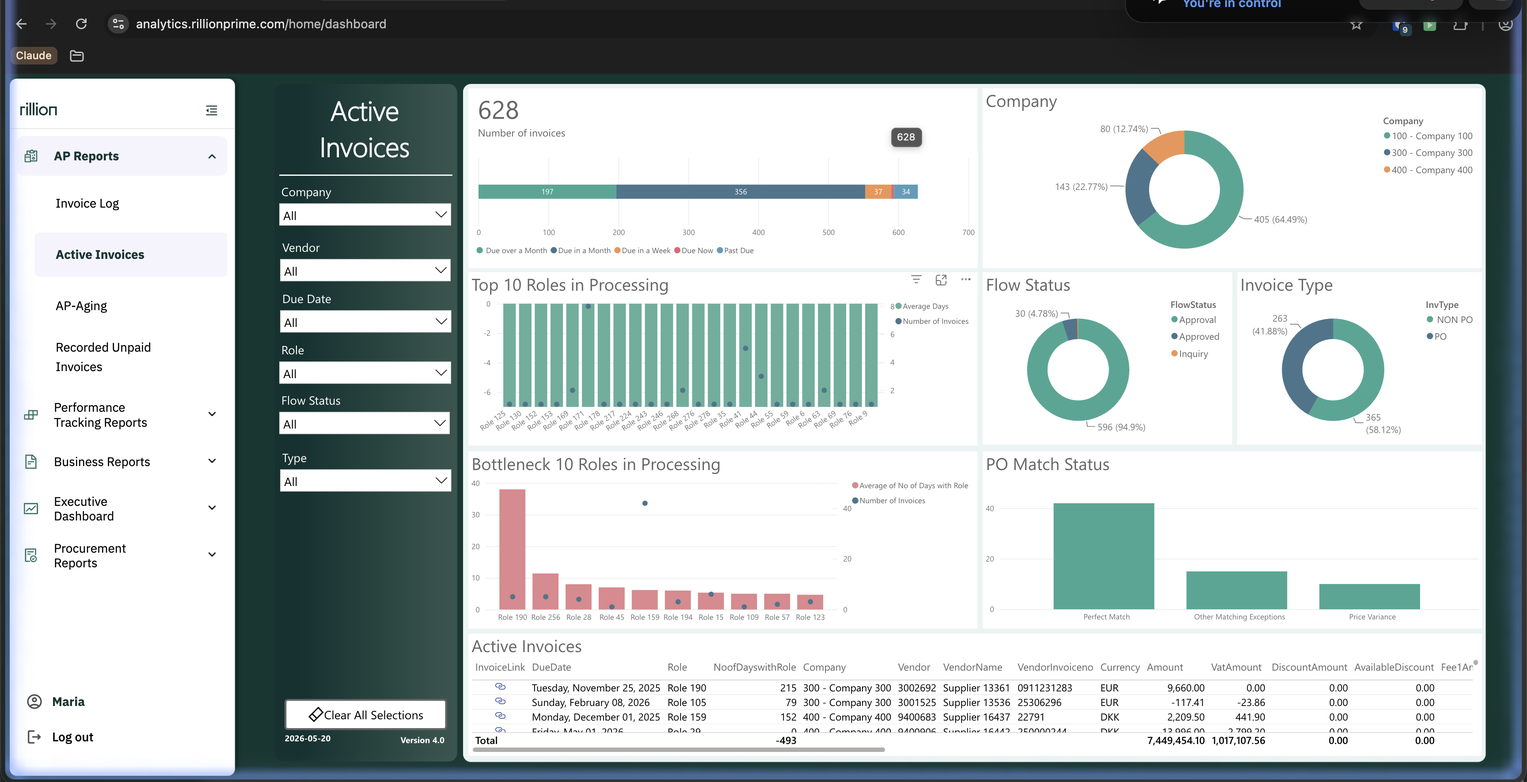
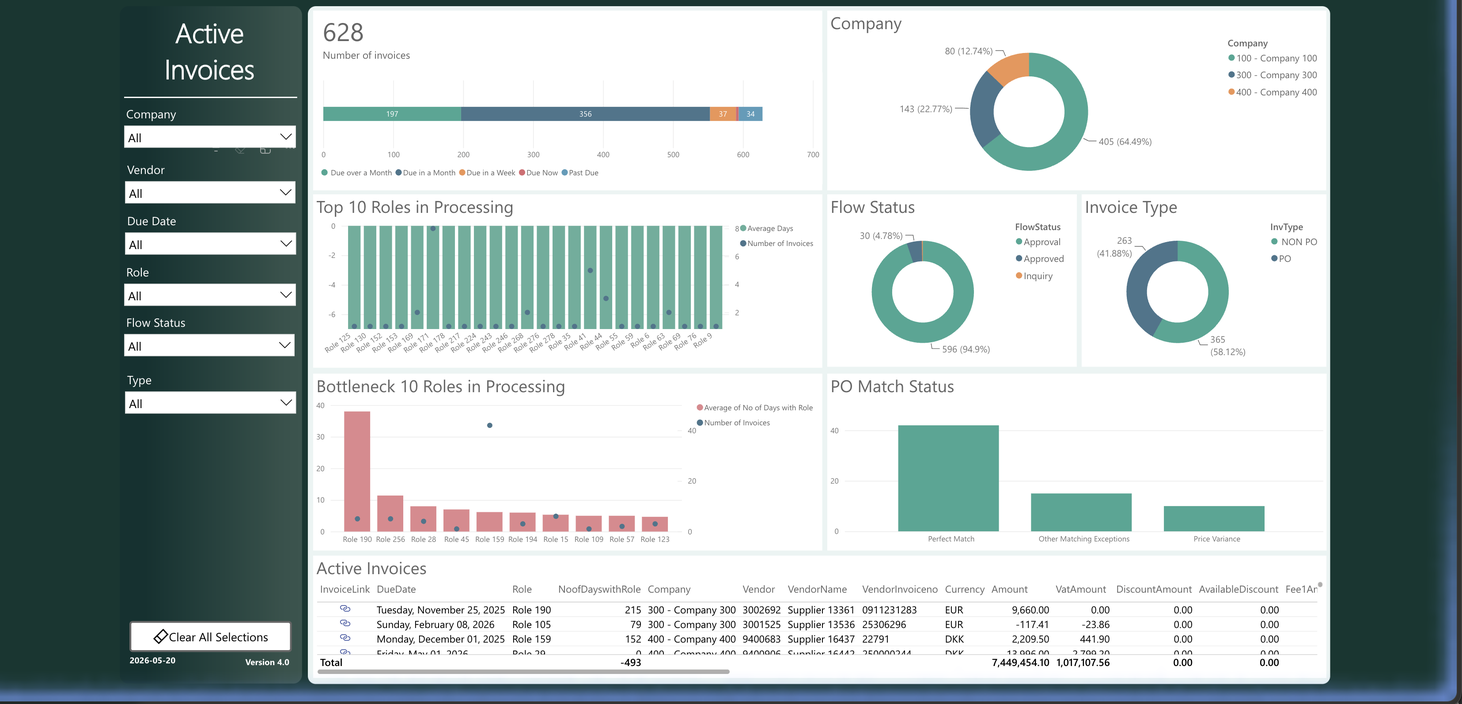
Make analytics evidence easier to explore
Use the clean dashboard captures and add log-only AI-matched non-PO examples so prospects can see automation without changing operational queue counts.

diff --git a/app.js b/app.js
@@ -48,20 +48,25 @@ const invoices = [
   { id: 'INV-77821', vendor: 'Precision Tools Co.', vendorInvoice: 'PTC-55392', amount: 3265, status: 'Manager approval', type: 'approval', flowProposal: 'Department manager', accountPosting: '6420 · Tooling', accountingDate: 'Apr 6, 2026', currency: 'USD', po: '4500838', poTone: 'warn', match: 96, matchTone: 'warn', due: 'May 4, 2026', owner: 'Jordan Lee', role: 'department-manager', confidence: 97, lines: [['CNC tooling set', 1, 3265]] },
   { id: 'INV-99314', vendor: 'Summit Packaging', vendorInvoice: 'SP-209875', amount: 8750, status: 'PO exception', type: 'exception', flowProposal: 'AP review', accountPosting: 'Review required', accountingDate: 'Apr 9, 2026', currency: 'USD', po: 'No PO', poTone: 'bad', match: 72, matchTone: 'bad', due: 'May 7, 2026', owner: 'AP review', role: 'ap-review', confidence: 84, lines: [['Protective packaging', 50, 175]] },
   { id: 'INV-66102', vendor: 'Riverside Logistics', vendorInvoice: 'RL-88014', amount: 960, status: 'AP review', type: 'match', flowProposal: 'Finance controller', accountPosting: '6210 · Freight', accountingDate: 'Apr 12, 2026', currency: 'USD', po: '4500841', poTone: 'warn', match: 91, matchTone: 'warn', due: 'May 12, 2026', owner: 'Morgan Patel', role: 'finance-controller', confidence: 94, lines: [['Regional freight', 1, 960]] },
-  { id: 'INV-55277', vendor: 'Core Facility Services', vendorInvoice: 'CFS-44871', amount: 4320, status: 'Manager approval', type: 'approval', flowProposal: 'Department manager', accountPosting: '6810 · Maintenance', accountingDate: 'Apr 15, 2026', currency: 'USD', po: '4500770', poTone: 'good', match: 100, matchTone: 'good', due: 'May 15, 2026', owner: 'Alex Nguyen', role: 'department-manager', confidence: 99, lines: [['Quarterly maintenance', 1, 4320]] }
+  { id: 'INV-55277', vendor: 'Core Facility Services', vendorInvoice: 'CFS-44871', amount: 4320, status: 'Manager approval', type: 'approval', flowProposal: 'Department manager', accountPosting: '6810 · Maintenance', accountingDate: 'Apr 15, 2026', currency: 'USD', po: '4500770', poTone: 'good', match: 100, matchTone: 'good', due: 'May 15, 2026', owner: 'Alex Nguyen', role: 'department-manager', confidence: 99, lines: [['Quarterly maintenance', 1, 4320]] },
+  { id: 'INV-18044', vendor: 'Brightwell Consulting', vendorInvoice: 'BC-94811', amount: 6480, status: 'Ready to record', type: 'match', flowProposal: 'Directly to recording', accountPosting: 'AI generated · 6530', accountingDate: 'Apr 17, 2026', currency: 'USD', po: 'Non-PO', poTone: 'good', match: 99, matchTone: 'good', aiMatched: true, logOnly: true, due: 'May 17, 2026', owner: 'AP automation', role: 'ap-review', confidence: 99, lines: [['Advisory services', 1, 6480]] },
+  { id: 'INV-18057', vendor: 'Lumen Cloud Services', vendorInvoice: 'LCS-33081', amount: 12900, status: 'AP review', type: 'match', flowProposal: 'Accounts payable +1', accountPosting: 'AI generated · 6710', accountingDate: 'Apr 18, 2026', currency: 'USD', po: 'Non-PO', poTone: 'good', match: 97, matchTone: 'good', aiMatched: true, logOnly: true, due: 'May 18, 2026', owner: 'AP automation', role: 'ap-review', confidence: 98, lines: [['Cloud platform subscription', 1, 12900]] },
+  { id: 'INV-18063', vendor: 'Harbor Office Services', vendorInvoice: 'HOS-77125', amount: 1840, status: 'Ready to record', type: 'match', flowProposal: 'Directly to recording', accountPosting: 'AI generated · 6110', accountingDate: 'Apr 20, 2026', currency: 'USD', po: 'Non-PO', poTone: 'good', match: 95, matchTone: 'good', aiMatched: true, logOnly: true, due: 'May 20, 2026', owner: 'AP automation', role: 'ap-review', confidence: 96, lines: [['Office services', 1, 1840]] },
+  { id: 'INV-18079', vendor: 'Northstar Utilities', vendorInvoice: 'NU-405193', amount: 7215, status: 'AP review', type: 'match', flowProposal: 'Accounts payable +1', accountPosting: 'AI generated · 6250', accountingDate: 'Apr 22, 2026', currency: 'USD', po: 'Non-PO', poTone: 'good', match: 98, matchTone: 'good', aiMatched: true, logOnly: true, due: 'May 22, 2026', owner: 'AP automation', role: 'ap-review', confidence: 99, lines: [['Electric utility service', 1, 7215]] }
 ];
 
 const analyticsReports = [
   { group: 'AP Reports', title: 'Invoice log', image: 'assets/analytics/invoice-log.png', copy: 'Review invoices currently in the log, errors requiring attention, match status, and time waiting for transfer.' },
-  { group: 'AP Reports', title: 'Active invoices', image: 'assets/analytics/active-invoices.png', copy: 'See active invoice volume, flow status, invoice type, match status, role bottlenecks, and the underlying invoice list.', capture: true },
+  { group: 'AP Reports', title: 'Active invoices', image: 'assets/analytics/active-invoices.png', copy: 'See active invoice volume, flow status, invoice type, match status, role bottlenecks, and the underlying invoice list.' },
   { group: 'AP Reports', title: 'AP aging', image: 'assets/analytics/payables-aging.png', copy: 'Understand open liabilities by company, vendor, and aging band without reconciling multiple ERP screens.' },
-  { group: 'Performance Tracking Reports', title: 'Invoice flow tracking', image: 'assets/analytics/invoice-flow-tracking.png', copy: 'Follow invoice-flow activity, role processing time, users, bottlenecks, and the detailed transfer history.', capture: true },
+  { group: 'Performance Tracking Reports', title: 'Invoice flow tracking', image: 'assets/analytics/invoice-flow-tracking.png', copy: 'Follow invoice-flow activity, role processing time, users, bottlenecks, and the detailed transfer history.' },
+  { group: 'Performance Tracking Reports', title: 'Invoice summary', image: 'assets/analytics/invoice-summary.png', copy: 'Review invoice volume, matching and capture types, flow and coding proposals, automation success, and vendor concentration.' },
   { group: 'Business Reports', title: 'Spend report', image: 'assets/analytics/spend-report.png', copy: 'Follow monthly spend and invoice volume, then narrow the view by company, account, vendor, or object.' },
   { group: 'Business Reports', title: 'AP cash flow', image: 'assets/analytics/ap-cash-flow.png', copy: 'See upcoming payment demand by date, currency, company, and invoice status to support cash planning.' },
-  { group: 'Business Reports', title: 'Vendor payment analyzer', image: 'assets/analytics/vendor-payment-analyzer.png', copy: 'Compare vendor payment timing, terms, late and early payments, and invoice volume across companies.', capture: true },
+  { group: 'Business Reports', title: 'Vendor payment analyzer', image: 'assets/analytics/vendor-payment-analyzer.png', copy: 'Compare vendor payment timing, terms, late and early payments, and invoice volume across companies.' },
   { group: 'Executive Dashboard', title: 'Executive dashboard', image: 'assets/analytics/executive-dashboard.png', copy: 'Track invoice volume, processing time, successful flows, coding automation, and matched spend over time.' },
-  { group: 'Procurement Reports', title: 'Procurement overview', image: 'assets/analytics/procurement-overview.png', copy: 'Review purchase-order, delivery, invoice-match, currency, and item performance in one procurement view.', capture: true },
-  { group: 'Procurement Reports', title: 'Procurement trend', image: 'assets/analytics/procurement-trend.png', copy: 'Explore adjusted purchasing amounts over time with matching, vendor, order, item, and company filters.', capture: true }
+  { group: 'Procurement Reports', title: 'Procurement overview', image: 'assets/analytics/procurement-overview.png', copy: 'Review purchase-order, delivery, invoice-match, currency, and item performance in one procurement view.' },
+  { group: 'Procurement Reports', title: 'Procurement trend', image: 'assets/analytics/procurement-trend.png', copy: 'Explore adjusted purchasing amounts over time with matching, vendor, order, item, and company filters.' }
 ];
 
 const documentTabs = [
@@ -159,7 +164,7 @@ function filtered() {
 }
 
 function queue() {
-  const matches = filtered();
+  const matches = filtered().filter(inv => !inv.logOnly);
   return `<section class="panel queue-panel"><div class="panel-head"><h2>My task queue</h2><button class="link-button" data-view="tasks">All tasks</button></div>
     <div class="task-summary">${[['8', 'Total'], ['3', 'Approvals'], ['2', 'Exceptions'], ['3', 'Other']].map(([value, label]) => `<div class="summary-item"><strong>${value}</strong><span>${label}</span></div>`).join('')}</div>
     ${matches.length ? `<ul class="queue">${matches.map(inv => `<li><button class="queue-item ${state.selected.id === inv.id ? 'selected' : ''}" data-invoice="${inv.id}"><strong>${inv.vendor}</strong><span class="amount">${money(inv.amount)}</span><small>${inv.id}</small>${status(inv)}</button></li>`).join('')}</ul>` : emptyState('No matching invoices', 'Try a vendor, invoice number, purchase order, or owner.')}
@@ -198,15 +203,15 @@ function relay(inv) {
 function dashboard() { workspace.innerHTML = `<div class="workspace-grid">${queue()}${invoicePanel(state.selected)}${relay(state.selected)}</div>`; }
 
 function toVerify() {
-  const rows = filtered().map(inv => `<tr data-invoice="${inv.id}" tabindex="0" role="link" aria-label="Verify ${inv.id} from ${inv.vendor}"><td><strong>${inv.id}</strong><small>${inv.vendor}</small></td><td>${money(inv.amount)}</td><td>${inv.confidence}%</td><td>${inv.po}</td><td>${status(inv)}</td></tr>`).join('');
+  const rows = filtered().filter(inv => !inv.logOnly).map(inv => `<tr data-invoice="${inv.id}" tabindex="0" role="link" aria-label="Verify ${inv.id} from ${inv.vendor}"><td><strong>${inv.id}</strong><small>${inv.vendor}</small></td><td>${money(inv.amount)}</td><td>${inv.confidence}%</td><td>${inv.po}</td><td>${status(inv)}</td></tr>`).join('');
   workspace.innerHTML = pageIntro('To Verify', 'Review fields extracted through Rillion Capture before sending each invoice to the Invoice Log.', '<span class="status exception">5 need review</span>') + `<section class="panel verify-layout"><div class="verify-note"><h3>Capture verification</h3><p>Choose an invoice to inspect the source document, extracted fields, PO evidence, and next approval owner.</p><div class="mini-metrics"><div><strong>98%</strong><span>field confidence</span></div><div><strong>3m 42s</strong><span>average review</span></div></div></div><div class="table-wrap">${rows ? dataTable(['Invoice', 'Amount', 'Confidence', 'PO number', 'Next step'], rows) : emptyState('No invoices to verify', 'Try a different search term.')}</div></section>`;
 }
 
 function invoiceLog() {
-  const matches = filtered().filter(inv => state.logFilter === 'all' || (state.logFilter === 'approved' ? state.approved.has(inv.id) : inv.type === state.logFilter));
-  const filters = [['all', 'All invoices'], ['approval', 'In approval'], ['exception', 'Exceptions'], ['approved', 'Approved']];
+  const matches = filtered().filter(inv => state.logFilter === 'all' || (state.logFilter === 'ai-match' ? inv.aiMatched : state.logFilter === 'approved' ? state.approved.has(inv.id) : inv.type === state.logFilter));
+  const filters = [['all', 'All invoices'], ['ai-match', 'AI matched'], ['approval', 'In approval'], ['exception', 'Exceptions'], ['approved', 'Approved']];
   const health = (tone, label) => `<span class="log-health ${tone}"><span aria-hidden="true"></span>${label}</span>`;
-  const rows = matches.map(inv => `<tr data-invoice="${inv.id}" tabindex="0" role="link" aria-label="Open ${inv.id} from ${inv.vendor}"><td>30</td><td><strong>${inv.vendor}</strong><small>${inv.id}</small></td><td>${inv.vendorInvoice}</td><td>${inv.flowProposal}</td><td>${inv.accountPosting}</td><td>${inv.accountingDate}</td><td>${inv.due}</td><td class="numeric">${money(inv.amount)}</td><td>${inv.currency}</td><td><strong>${inv.po}</strong>${health(inv.poTone, inv.poTone === 'good' ? 'PO matched' : inv.poTone === 'warn' ? 'PO variance' : 'PO missing')}</td><td>${health(inv.matchTone, inv.matchTone === 'good' ? `Matched ${inv.match}%` : inv.matchTone === 'warn' ? `Review ${inv.match}%` : `Exception ${inv.match}%`)}</td><td>${status(inv)}</td></tr>`).join('');
+  const rows = matches.map(inv => `<tr data-invoice="${inv.id}" tabindex="0" role="link" aria-label="Open ${inv.id} from ${inv.vendor}"><td>30</td><td><strong>${inv.vendor}</strong><small>${inv.id}</small></td><td>${inv.vendorInvoice}</td><td>${inv.flowProposal}</td><td>${inv.accountPosting}</td><td>${inv.accountingDate}</td><td>${inv.due}</td><td class="numeric">${money(inv.amount)}</td><td>${inv.currency}</td><td><strong>${inv.po}</strong>${health(inv.poTone, inv.po === 'Non-PO' ? 'Non-PO verified' : inv.poTone === 'good' ? 'PO matched' : inv.poTone === 'warn' ? 'PO variance' : 'PO missing')}</td><td>${health(inv.matchTone, inv.aiMatched ? `AI matched ${inv.match}%` : inv.matchTone === 'good' ? `Matched ${inv.match}%` : inv.matchTone === 'warn' ? `Review ${inv.match}%` : `Exception ${inv.match}%`)}</td><td>${status(inv)}</td></tr>`).join('');
   workspace.innerHTML = pageIntro('Invoice Log', 'Follow every captured invoice from AP review through approval and transfer.', '<button class="primary-button" data-view="to-verify">Open To Verify</button>') + `<div class="invoice-log-toolbar"><div class="filter-tabs" aria-label="Filter invoice log">${filters.map(([id, label]) => `<button data-log-filter="${id}" aria-pressed="${state.logFilter === id}">${label}</button>`).join('')}</div><div class="log-legend" aria-label="Invoice log status key">${health('good', 'Matched')}${health('warn', 'Review')}${health('bad', 'Exception')}</div></div><section class="panel table-wrap invoice-log-table">${rows ? dataTable(['Company', 'Vendor', 'Vendor invoice no.', 'Flow proposal', 'Account posting', 'Accounting date', 'Due date', 'Total', 'Currency', 'Purchase order', 'Match', 'Status'], rows) : emptyState('No matching invoices', 'Clear the search or choose another status.')}</section>`;
 }
 
@@ -242,9 +247,10 @@ function documentDetail() {
 
 function approvalReport() {
   const filters = [['all', 'All decisions'], ['waiting', 'Waiting'], ['approved', 'Approved']];
-  const matches = invoices.filter(inv => state.approvalFilter === 'all' || (state.approvalFilter === 'approved' ? state.approved.has(inv.id) : !state.approved.has(inv.id)));
+  const approvalInvoices = invoices.filter(inv => !inv.logOnly);
+  const matches = approvalInvoices.filter(inv => state.approvalFilter === 'all' || (state.approvalFilter === 'approved' ? state.approved.has(inv.id) : !state.approved.has(inv.id)));
   const roles = approvalRoles.filter(role => state.roleFilter === 'all' || role.id === state.roleFilter);
-  const waiting = invoices.filter(inv => !state.approved.has(inv.id) && (state.roleFilter === 'all' || inv.role === state.roleFilter)).length;
+  const waiting = approvalInvoices.filter(inv => !state.approved.has(inv.id) && (state.roleFilter === 'all' || inv.role === state.roleFilter)).length;
   const groups = roles.map(role => {
     const decisions = matches.filter(inv => inv.role === role.id);
     const rows = decisions.map(inv => `<tr data-invoice="${inv.id}" tabindex="0" role="link" aria-label="Open ${inv.id} assigned to ${inv.owner}"><td>${inv.owner}</td><td><strong>${inv.id}</strong><small>${inv.vendor}</small></td><td>${money(inv.amount)}</td><td>${state.approved.has(inv.id) ? 'Completed today' : inv.due}</td><td>${state.approved.has(inv.id) ? '<span class="status paid">Approved</span>' : '<span class="status approval">Waiting</span>'}</td></tr>`).join('');
@@ -255,7 +261,7 @@ function approvalReport() {
 
 function analytics() {
   const report = analyticsReports[state.analytics];
-  workspace.innerHTML = pageIntro('Rillion Analytics', 'Explore representative Analytics views in the same board order as the Rillion platform.', `<span class="analytics-count">${state.analytics + 1} of ${analyticsReports.length}</span>`) + `<div class="analytics-layout"><nav class="panel analytics-menu" aria-label="Analytics boards">${analyticsReports.map((item, index) => `${index === 0 || item.group !== analyticsReports[index - 1].group ? `<p class="analytics-group">${item.group}</p>` : ''}<button data-analytics="${index}" aria-current="${index === state.analytics ? 'page' : 'false'}"><span>${item.title}</span><small>${index === state.analytics ? 'Viewing now' : 'Open board'}</small></button>`).join('')}</nav><section class="panel analytics-stage"><div class="analytics-head"><div><span class="analytics-board-group">${report.group}</span><h2>${report.title}</h2><p>${report.copy}</p></div><div class="analytics-actions"><button class="quiet-control" data-action="analytics-prev" ${state.analytics === 0 ? 'disabled' : ''}>Previous</button><button class="primary-button" data-action="analytics-next">${state.analytics === analyticsReports.length - 1 ? 'Back to first' : 'Next board'}</button></div></div><button class="analytics-canvas ${report.capture ? 'product-capture' : ''}" data-action="analytics-next" aria-label="Continue from ${report.title} to the next Analytics board"><span class="analytics-image-frame"><img src="${report.image}" alt="${report.title} Analytics dashboard with demonstration data"></span><span class="analytics-continue">Click the board to continue</span></button><p class="reference-note">Reference screen from Rillion Analytics · demonstration data</p></section></div>`;
+  workspace.innerHTML = pageIntro('Rillion Analytics', 'Explore representative Analytics views in the same board order as the Rillion platform.', `<span class="analytics-count">${state.analytics + 1} of ${analyticsReports.length}</span>`) + `<div class="analytics-layout"><nav class="panel analytics-menu" aria-label="Analytics boards">${analyticsReports.map((item, index) => `${index === 0 || item.group !== analyticsReports[index - 1].group ? `<p class="analytics-group">${item.group}</p>` : ''}<button data-analytics="${index}" aria-current="${index === state.analytics ? 'page' : 'false'}"><span>${item.title}</span><small>${index === state.analytics ? 'Viewing now' : 'Open board'}</small></button>`).join('')}</nav><section class="panel analytics-stage"><div class="analytics-head"><div><span class="analytics-board-group">${report.group}</span><h2>${report.title}</h2><p>${report.copy}</p></div><div class="analytics-actions"><button class="quiet-control" data-action="analytics-prev" ${state.analytics === 0 ? 'disabled' : ''}>Previous</button><button class="primary-button" data-action="analytics-next">${state.analytics === analyticsReports.length - 1 ? 'Back to first' : 'Next board'}</button></div></div><button class="analytics-canvas" data-action="analytics-next" aria-label="Continue from ${report.title} to the next Analytics board"><span class="analytics-image-frame"><img src="${report.image}" alt="${report.title} Analytics dashboard with demonstration data"></span><span class="analytics-continue">Click the board to continue</span></button><p class="reference-note">Reference screen from Rillion Analytics · demonstration data</p></section></div>`;
 }
 
 function reports() {
@@ -367,7 +373,7 @@ const tours = [
   ['Follow the Invoice Log', 'The log keeps status, ownership, and purchasing evidence visible from receipt through transfer.', 'invoice-log'],
   ['Measure approvals', 'The Approval report shows who owns each decision and how quickly work moves.', 'approval-report'],
   ['Track payments', 'Payments keeps approved invoices visible as they move from posting readiness to scheduled payment and ERP export.', 'payments'],
-  ['Explore Analytics', 'Move through ten boards in the same groups and order as the Rillion Analytics platform.', 'analytics']
+  ['Explore Analytics', 'Move through eleven boards in the same groups and order as the Rillion Analytics platform.', 'analytics']
 ];
 
 function showTour() {

diff --git a/styles.css b/styles.css
@@ -51,7 +51,7 @@ button,input,select{font:inherit}button{color:inherit}button:focus-visible,input
 .settings-list{max-width:760px;padding:4px 18px}.settings-list>div{display:flex;justify-content:space-between;gap:24px;padding:15px 0;border-bottom:1px solid #edf0ec}.settings-list>div:last-child{border:0}.settings-list span{color:var(--muted)}
 .tour-launch{display:flex;align-items:center;gap:9px;min-height:46px;padding:6px 11px 6px 7px;border:1px solid #b5dd98;border-radius:8px;background:var(--lime);color:var(--green);box-shadow:0 4px 16px rgba(24,28,23,.10);cursor:pointer;animation:tour-arrival .8s cubic-bezier(.2,.8,.2,1) 1s 2 alternate}.tour-launch:hover{background:#b7e796;box-shadow:0 7px 20px rgba(24,28,23,.15)}.tour-launch-icon{width:31px;height:31px;display:grid;place-items:center;border-radius:50%;background:var(--green);color:var(--sand)}.tour-launch-icon svg{width:18px;height:18px;fill:none;stroke:currentColor;stroke-width:1.8;stroke-linecap:round;stroke-linejoin:round}.tour-launch strong,.tour-launch small{display:block;text-align:left}.tour-launch strong{font-size:13px}.tour-launch small{font-size:11px;font-weight:600;opacity:.78}@keyframes tour-arrival{to{transform:translateY(-2px);box-shadow:0 8px 24px rgba(24,28,23,.22)}}
 .analytics-count{color:var(--green);font-weight:700;font-variant-numeric:tabular-nums}.analytics-layout{display:grid;grid-template-columns:236px minmax(0,1fr);gap:14px;align-items:start}.analytics-menu{display:grid;max-height:min(720px,calc(100vh - 170px));overflow:auto}.analytics-group{margin:0;padding:9px 14px 6px;color:var(--green);background:var(--wash);font-size:10px;font-weight:700}.analytics-menu button{display:grid;gap:2px;padding:11px 14px;border:0;border-bottom:1px solid #e6eae4;background:white;color:var(--ink);text-align:left;cursor:pointer}.analytics-menu button:hover{background:var(--sand-light)}.analytics-menu button[aria-current="page"]{background:var(--green);color:var(--sand)}.analytics-menu span{font-weight:700}.analytics-menu small{color:var(--muted)}.analytics-menu button[aria-current="page"] small{color:rgba(246,241,220,.72)}
-.analytics-stage{overflow:hidden}.analytics-head{display:flex;align-items:flex-start;justify-content:space-between;gap:24px;padding:18px 20px;border-bottom:1px solid var(--line)}.analytics-board-group{display:block;margin-bottom:3px;color:var(--green);font-size:11px;font-weight:700}.analytics-head h2{margin:0;font-size:23px}.analytics-head p{max-width:70ch;margin:5px 0 0;color:var(--muted)}.analytics-actions{display:flex;gap:8px}.quiet-control:disabled{cursor:not-allowed;opacity:.45}.analytics-canvas{position:relative;display:block;width:100%;padding:14px;border:0;background:var(--wash);cursor:pointer}.analytics-image-frame{display:block;overflow:hidden;border:1px solid #bdcbc4}.analytics-canvas img{display:block;width:100%;height:auto}.analytics-canvas.product-capture .analytics-image-frame{aspect-ratio:2.07}.analytics-canvas.product-capture img{transform:translateY(-5.65%)}.analytics-canvas .analytics-continue{position:absolute;right:24px;bottom:24px;padding:7px 10px;border-radius:6px;background:var(--green);color:var(--sand);font-size:12px;font-weight:700;opacity:0;transform:translateY(4px);transition:opacity .18s ease,transform .25s cubic-bezier(.2,.8,.2,1)}.analytics-canvas:hover .analytics-continue,.analytics-canvas:focus-visible .analytics-continue{opacity:1;transform:none}.reference-note{margin:0;padding:0 20px 15px;color:var(--muted);font-size:12px}
+.analytics-stage{overflow:hidden}.analytics-head{display:flex;align-items:flex-start;justify-content:space-between;gap:24px;padding:18px 20px;border-bottom:1px solid var(--line)}.analytics-board-group{display:block;margin-bottom:3px;color:var(--green);font-size:11px;font-weight:700}.analytics-head h2{margin:0;font-size:23px}.analytics-head p{max-width:70ch;margin:5px 0 0;color:var(--muted)}.analytics-actions{display:flex;gap:8px}.quiet-control:disabled{cursor:not-allowed;opacity:.45}.analytics-canvas{position:relative;display:block;width:100%;padding:14px;border:0;background:var(--wash);cursor:pointer}.analytics-image-frame{display:block;overflow:hidden;border:1px solid #bdcbc4}.analytics-canvas img{display:block;width:100%;height:auto}.analytics-canvas .analytics-continue{position:absolute;right:24px;bottom:24px;padding:7px 10px;border-radius:6px;background:var(--green);color:var(--sand);font-size:12px;font-weight:700;opacity:0;transform:translateY(4px);transition:opacity .18s ease,transform .25s cubic-bezier(.2,.8,.2,1)}.analytics-canvas:hover .analytics-continue,.analytics-canvas:focus-visible .analytics-continue{opacity:1;transform:none}.reference-note{margin:0;padding:0 20px 15px;color:var(--muted);font-size:12px}
 
 @media(max-width:1180px){.app-shell{grid-template-columns:224px minmax(0,1fr)}.analytics-layout{grid-template-columns:190px minmax(0,1fr)}.verify-layout{grid-template-columns:1fr}.verify-note{display:grid;grid-template-columns:1fr auto;gap:14px}.mini-metrics{margin:0}.document-controls{align-items:stretch;flex-direction:column}.document-detail-grid{grid-template-columns:minmax(420px,1fr) minmax(260px,.7fr)}.document-side-stack{grid-column:1/-1;grid-template-columns:repeat(3,minmax(0,1fr))}.payments-head{display:grid}.payments-head>div:first-child{align-items:flex-start;flex-direction:column;gap:8px}.payment-filters{grid-template-columns:1fr 1fr}}
 @media(max-width:820px){.app-shell{grid-template-columns:minmax(0,1fr)}.sidebar,.app-body,.topbar,#workspace,.analytics-layout,.analytics-menu,.analytics-stage,.analytics-canvas,.payments-head,.payments-panel{min-width:0;max-width:100%}.sidebar{overflow:visible}.app-body{overflow:hidden}.sidebar #nav{width:100%;display:flex;overflow:auto;padding-right:0}.nav-section,.nav-children{display:contents}.nav-children[hidden]{display:none}.nav-subitem{padding:8px 11px}.nav-subitem .nav-label{display:block}.nav-subitem .sub-dot{display:none}.chevron{display:none}.analytics-layout{width:100%;grid-template-columns:minmax(0,1fr)}.analytics-menu{display:flex;max-height:none;overflow:auto}.analytics-group{display:grid;place-items:center;min-width:max-content;padding:8px 10px}.analytics-menu button{min-width:150px;border-right:1px solid #e6eae4;border-bottom:0}.analytics-head{display:grid}.analytics-actions{justify-content:end}.analytics-canvas img{max-width:100%}.approval-overview{grid-template-columns:1fr}.verify-note{display:block}.mini-metrics{margin-top:18px}.invoice-log-toolbar{align-items:stretch;flex-direction:column}.document-toolbar{margin:-14px -12px 12px}.document-tabs,.document-filters{width:100%}.document-filters{display:grid;grid-template-columns:1fr 1fr}.document-filters select{width:100%;min-width:0}.document-detail-grid{grid-template-columns:minmax(0,1fr)}.document-side-stack{grid-column:auto;grid-template-columns:minmax(0,1fr)}.document-paper{min-height:0}.request-grid{grid-template-columns:1fr}.payment-head-actions{position:static}.payment-tabs{width:100%}.payment-filters{grid-template-columns:1fr 1fr}.payment-batch{overflow:auto}.payment-batch span{display:none}.payment-total{align-items:flex-start;flex-direction:column;gap:3px}}

diff --git a/DESIGN.md b/DESIGN.md
@@ -186,11 +186,11 @@ The six-step tour follows the operational story from queue to invoice verificati
 
 ### Invoice Log
 
-Invoice Log follows To Verify in both navigation and the guided tour. Its horizontally contained operational grid mirrors Demo51's evidence density with company, vendor invoice, flow proposal, account posting, accounting date, due date, total, currency, purchase order, match, and workflow status. PO and match use the same labeled three-state language: green means matched, yellow means review or variance, and red means exception or missing PO. Text and a dot accompany every color so state never depends on color alone.
+Invoice Log follows To Verify in both navigation and the guided tour. Its horizontally contained operational grid mirrors Demo51's evidence density with company, vendor invoice, flow proposal, account posting, accounting date, due date, total, currency, purchase order, match, and workflow status. PO and match use the same labeled three-state language: green means matched, yellow means review or variance, and red means exception or missing PO. Non-PO automation examples pair `Non-PO verified` with `AI matched` and remain log-only so they do not inflate To Verify or approval work. Text and a dot accompany every color so state never depends on color alone.
 
 ### Analytics
 
-Rillion Analytics uses a grouped board index beside one dominant reference screen. Ten supplied product views follow the real platform hierarchy: AP Reports (Invoice Log, Active Invoices, AP Aging), Performance Tracking Reports (Invoice Flow Tracking), Business Reports (Spend Report, AP Cash Flow, Vendor Payment Analyzer), Executive Dashboard, and Procurement Reports (Procurement Overview, Procurement Trend). Explicit board buttons and previous/next controls support both direct and sequential exploration. Browser chrome in user-supplied captures is clipped by the presentation frame without modifying the source assets. The screenshots remain evidence; the surrounding shell supplies hierarchy, context, keyboard operation, and the public-simulation boundary.
+Rillion Analytics uses a grouped board index beside one dominant reference screen. Eleven supplied product views follow the real platform hierarchy: AP Reports (Invoice Log, Active Invoices, AP Aging), Performance Tracking Reports (Invoice Flow Tracking, Invoice Summary), Business Reports (Spend Report, AP Cash Flow, Vendor Payment Analyzer), Executive Dashboard, and Procurement Reports (Procurement Overview, Procurement Trend). Explicit board buttons and previous/next controls support both direct and sequential exploration. The seven newly supplied demonstration captures are already navigation-free and display without cropping. The screenshots remain evidence; the surrounding shell supplies hierarchy, context, keyboard operation, and the public-simulation boundary.
 
 ### Approval Relay
 

diff --git a/PRODUCT.md b/PRODUCT.md
@@ -35,7 +35,7 @@ The source reference is the authenticated Demo51 environment and its invoice, re
 - No production APIs, credentials, customer data, lead forms, behavioral tracking, telemetry, or remote writes.
 - It must identify itself as a product simulation rather than a live Rillion tenant.
 - The navigation mirrors Demo51's primary hierarchy while keeping secondary areas representative and read-only.
-- Invoices includes interactive To Verify and Invoice Log branches; Invoice Log exposes flow/accounting evidence and labeled green, yellow, and red PO/match states; Reports contains AP performance; Rillion Analytics includes ten board click-throughs grouped in platform order.
+- Invoices includes interactive To Verify and Invoice Log branches; Invoice Log exposes flow/accounting evidence, labeled green/yellow/red PO and match states, and log-only non-PO AI-matched examples; Reports contains AP performance; Rillion Analytics includes eleven board click-throughs grouped in platform order.
 - A persistent Approval role selector lists the synthetic workflow roles and is the primary navigation path to each role's grouped approval work.
 - Documents includes a status-tabbed inbox and a synthetic document-detail workspace with preview, metadata, flow, lines, comments, and simulated approval actions.
 - Payments includes Ready for payment, Awaiting approval, In progress, and Completed click-throughs with synthetic filters, records, and reversible simulated actions.
@@ -52,7 +52,7 @@ Use the current Rillion identity and product terminology. Preserve the friendly-
 - Current Rillion brand guidelines, logo assets, font files, UI color tokens, and interaction rules.
 - The sidebar uses the official lime Rillion logo asset on the deep-green product frame.
 - Prospect-safe Rillion Analytics reference screens supplied in `User stories Analytics&BI.pptx`.
-- User-supplied screenshots from the Rillion Analytics demonstration environment for Active Invoices, Invoice Flow Tracking, Vendor Payment Analyzer, Procurement Overview, and Procurement Trend.
+- Seven navigation-free screenshots supplied from the Rillion Analytics demonstration environment for Active Invoices, Invoice Flow Tracking, Invoice Summary, Vendor Payment Analyzer, Executive Dashboard, Procurement Overview, and Procurement Trend.
 - No public performance claims, customer endorsements, or production analytics are authorized for this artifact.
 
 ## Product Principles

diff --git a/.impeccable/surfaces/index-html.md b/.impeccable/surfaces/index-html.md
@@ -11,7 +11,7 @@ related_targets: ["app.js","styles.css"]
 
 **OWN-WORLD:** Deep green navigation, sand workspace, white evidence cards, lime action and success, and restrained lavender for the active approval role. Gellix-style geometric type, 1px neutral rules, compact iconography, and layered evidence cards make the page recognizably Rillion with all copy removed.
 
-**STORY:** A prospect immediately sees a recognizable six-step Guided tour control, then sees work arrive in To Verify and moves next into the Invoice Log, where flow/accounting fields and labeled green, yellow, and red PO/match states explain readiness. The prospect then inspects source evidence, selects an Approval role, and reviews that role's decisions. Documents shows a status-routed inbox and detail flow. Payments carries approved work through ready, awaiting, in-progress, and completed states before ten Rillion Analytics boards grouped in platform order. Every interaction explains state, ownership, payment progress, or the next board.
+**STORY:** A prospect immediately sees a recognizable six-step Guided tour control, then sees work arrive in To Verify and moves next into the Invoice Log, where flow/accounting fields, labeled green/yellow/red PO and match states, and non-PO AI-matched examples explain readiness. The prospect then inspects source evidence, selects an Approval role, and reviews that role's decisions. Documents shows a status-routed inbox and detail flow. Payments carries approved work through ready, awaiting, in-progress, and completed states before eleven Rillion Analytics boards grouped in platform order. Every interaction explains state, ownership, payment progress, or the next board.
 
 **FIRST VIEWPORT:** A Demo51-style grouped navigation rail with the official lime Rillion logo anchors the product. The dashboard keeps the task queue, selected invoice, approval relay, and evidence together; the upper-right role selector makes approval ownership available from every view.
 

diff --git a/README.md b/README.md
@@ -1,6 +1,6 @@
 # Rillion interactive demo
 
-A public, login-free simulation of a Rillion accounts-payable workflow. It uses fictional Northstar Manufacturing data and is not connected to Demo51 or any production service. The click-through includes To Verify, a Demo51-style Invoice Log with labeled green/yellow/red PO and match states, role-grouped approvals, a Documents inbox and detail flow, four Payments states, and ten Rillion Analytics boards grouped in platform order. The upper-right Approval role selector is the primary path to AP review, Department manager, and Finance controller approvals; a prominent Guided tour control is visible on arrival; and the sidebar uses the official lime Rillion logo asset.
+A public, login-free simulation of a Rillion accounts-payable workflow. It uses fictional Northstar Manufacturing data and is not connected to Demo51 or any production service. The click-through includes To Verify, a Demo51-style Invoice Log with labeled green/yellow/red PO and match states plus non-PO AI-matched examples, role-grouped approvals, a Documents inbox and detail flow, four Payments states, and eleven Rillion Analytics boards grouped in platform order. The upper-right Approval role selector is the primary path to AP review, Department manager, and Finance controller approvals; a prominent Guided tour control is visible on arrival; and the sidebar uses the official lime Rillion logo asset.
 
 Explore the live demo at <https://taste4458.github.io/rillion-demo-site/>.
 
